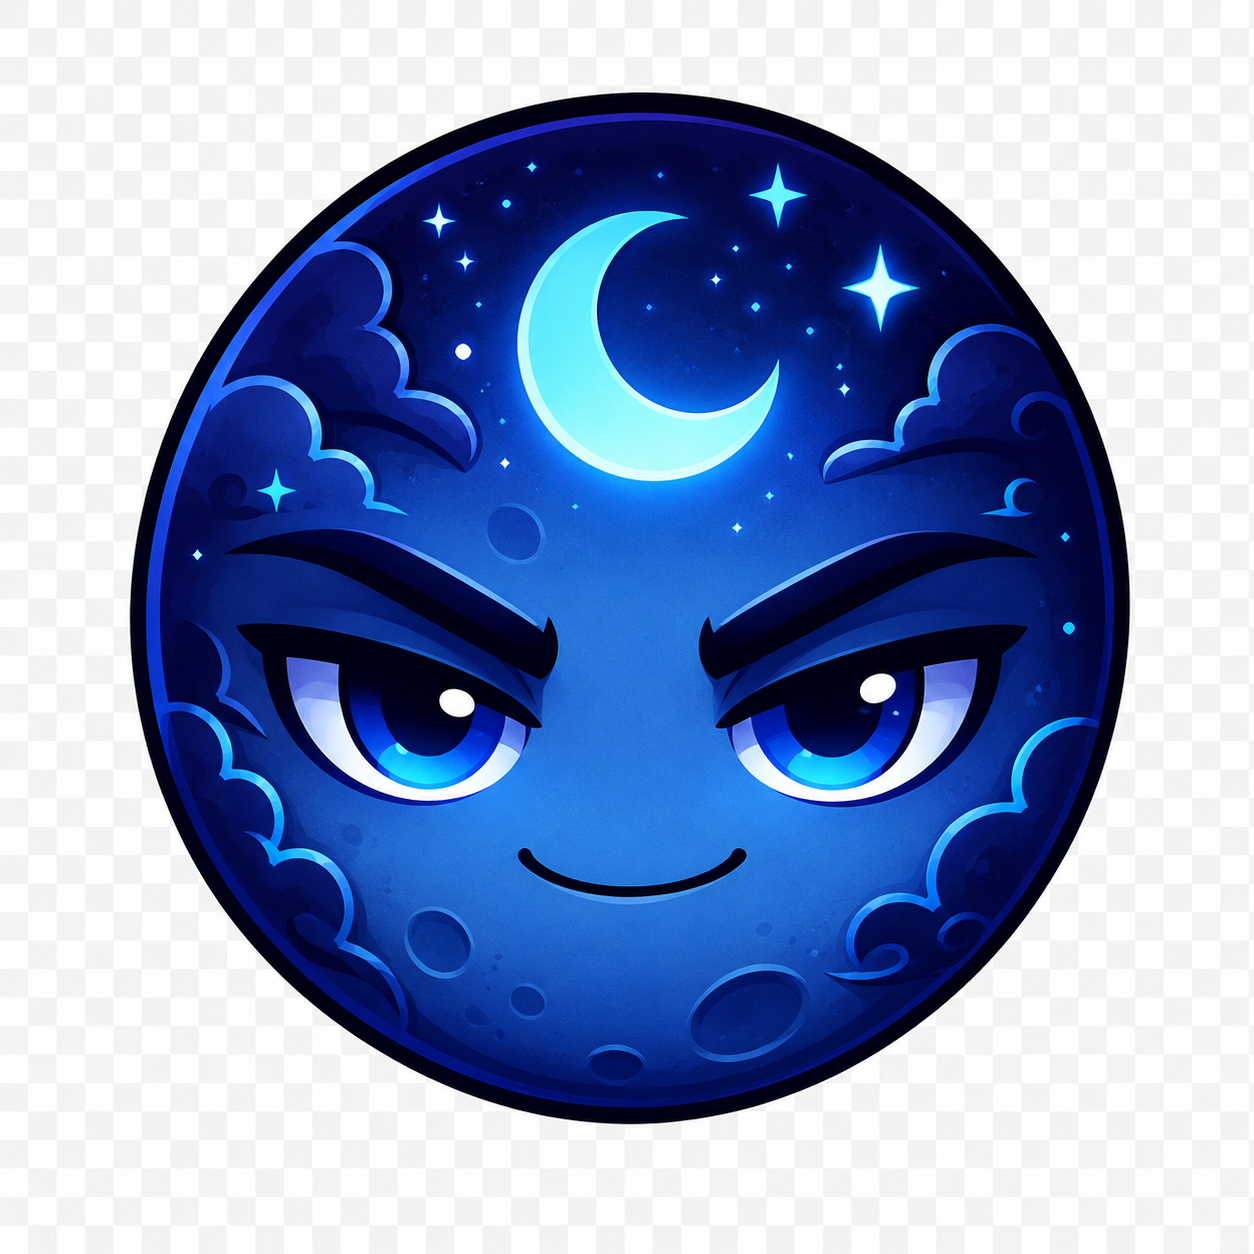
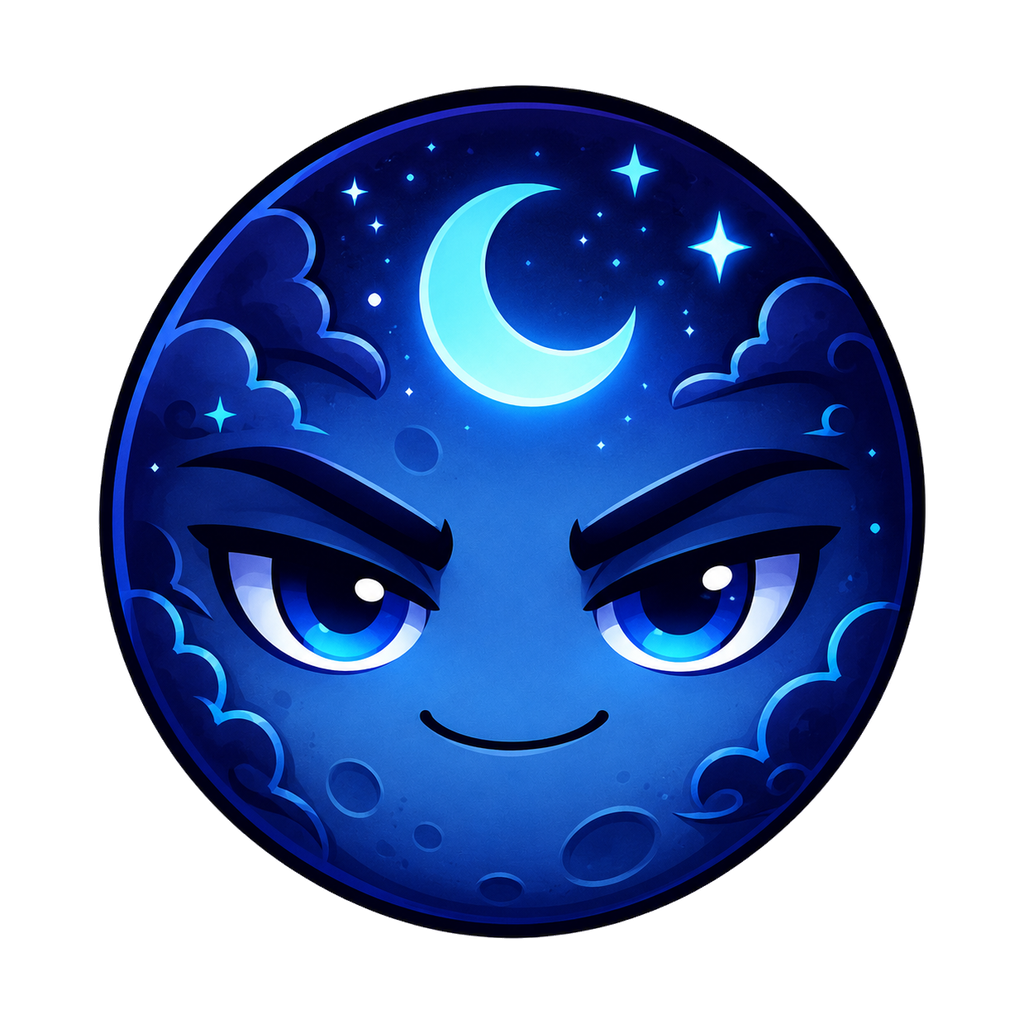
Cut out character face PNG backgrounds

Changed region(s): [[0.0938, 0.0625, 0.9062, 0.9375], [0.4062, 0.6562, 0.5938, 0.75]]

diff --git a/scripts/cutout_character_faces.py b/scripts/cutout_character_faces.py
@@ -1,0 +1,116 @@
+from pathlib import Path
+from collections import deque
+from PIL import Image
+
+CHAR_DIR = Path("public/cosmetics/characters")
+MAX_OUTPUT_SIZE = 1024
+PADDING_RATIO = 0.10
+
+def is_background_like(pixel):
+    r, g, b, a = pixel
+    if a == 0:
+        return True
+
+    avg = (r + g + b) / 3
+    spread = max(r, g, b) - min(r, g, b)
+
+    # 白背景・薄いグレー背景・市松模様の白/灰色を除去対象にする
+    if avg >= 220 and spread <= 35:
+        return True
+    if min(r, g, b) >= 245:
+        return True
+
+    return False
+
+def remove_edge_connected_background(img):
+    img = img.convert("RGBA")
+    w, h = img.size
+    px = img.load()
+
+    bg = bytearray(w * h)
+    q = deque()
+
+    def mark_if_bg(x, y):
+        i = y * w + x
+        if bg[i]:
+            return
+        if is_background_like(px[x, y]):
+            bg[i] = 1
+            q.append((x, y))
+
+    # 端からつながっている白/灰背景だけを消す
+    for x in range(w):
+        mark_if_bg(x, 0)
+        mark_if_bg(x, h - 1)
+    for y in range(h):
+        mark_if_bg(0, y)
+        mark_if_bg(w - 1, y)
+
+    while q:
+        x, y = q.popleft()
+        for nx, ny in ((x + 1, y), (x - 1, y), (x, y + 1), (x, y - 1)):
+            if 0 <= nx < w and 0 <= ny < h:
+                i = ny * w + nx
+                if not bg[i] and is_background_like(px[nx, ny]):
+                    bg[i] = 1
+                    q.append((nx, ny))
+
+    removed = 0
+    for y in range(h):
+        for x in range(w):
+            i = y * w + x
+            if bg[i]:
+                r, g, b, a = px[x, y]
+                if a != 0:
+                    removed += 1
+                px[x, y] = (r, g, b, 0)
+
+    return img, removed
+
+def crop_to_face(img):
+    alpha = img.getchannel("A")
+    bbox = alpha.getbbox()
+    if not bbox:
+        return img
+
+    cropped = img.crop(bbox)
+    cw, ch = cropped.size
+
+    pad = max(16, int(max(cw, ch) * PADDING_RATIO))
+    side = max(cw, ch) + pad * 2
+
+    canvas = Image.new("RGBA", (side, side), (0, 0, 0, 0))
+    canvas.paste(cropped, ((side - cw) // 2, (side - ch) // 2), cropped)
+
+    if side > MAX_OUTPUT_SIZE:
+        canvas = canvas.resize((MAX_OUTPUT_SIZE, MAX_OUTPUT_SIZE), Image.Resampling.LANCZOS)
+
+    return canvas
+
+def process(path):
+    original = Image.open(path).convert("RGBA")
+    before_size = original.size
+
+    no_bg, removed = remove_edge_connected_background(original)
+    out = crop_to_face(no_bg)
+
+    out.save(path, "PNG", optimize=True)
+
+    alpha = out.getchannel("A")
+    bbox = alpha.getbbox()
+    print(f"processed: {path}")
+    print(f"  before: {before_size}")
+    print(f"  after : {out.size}")
+    print(f"  removed background pixels: {removed}")
+    print(f"  alpha bbox: {bbox}")
+
+def main():
+    files = sorted(CHAR_DIR.glob("*.png"))
+    if not files:
+        raise SystemExit(f"No PNG files found in {CHAR_DIR}")
+
+    for path in files:
+        process(path)
+
+if __name__ == "__main__":
+    main()
